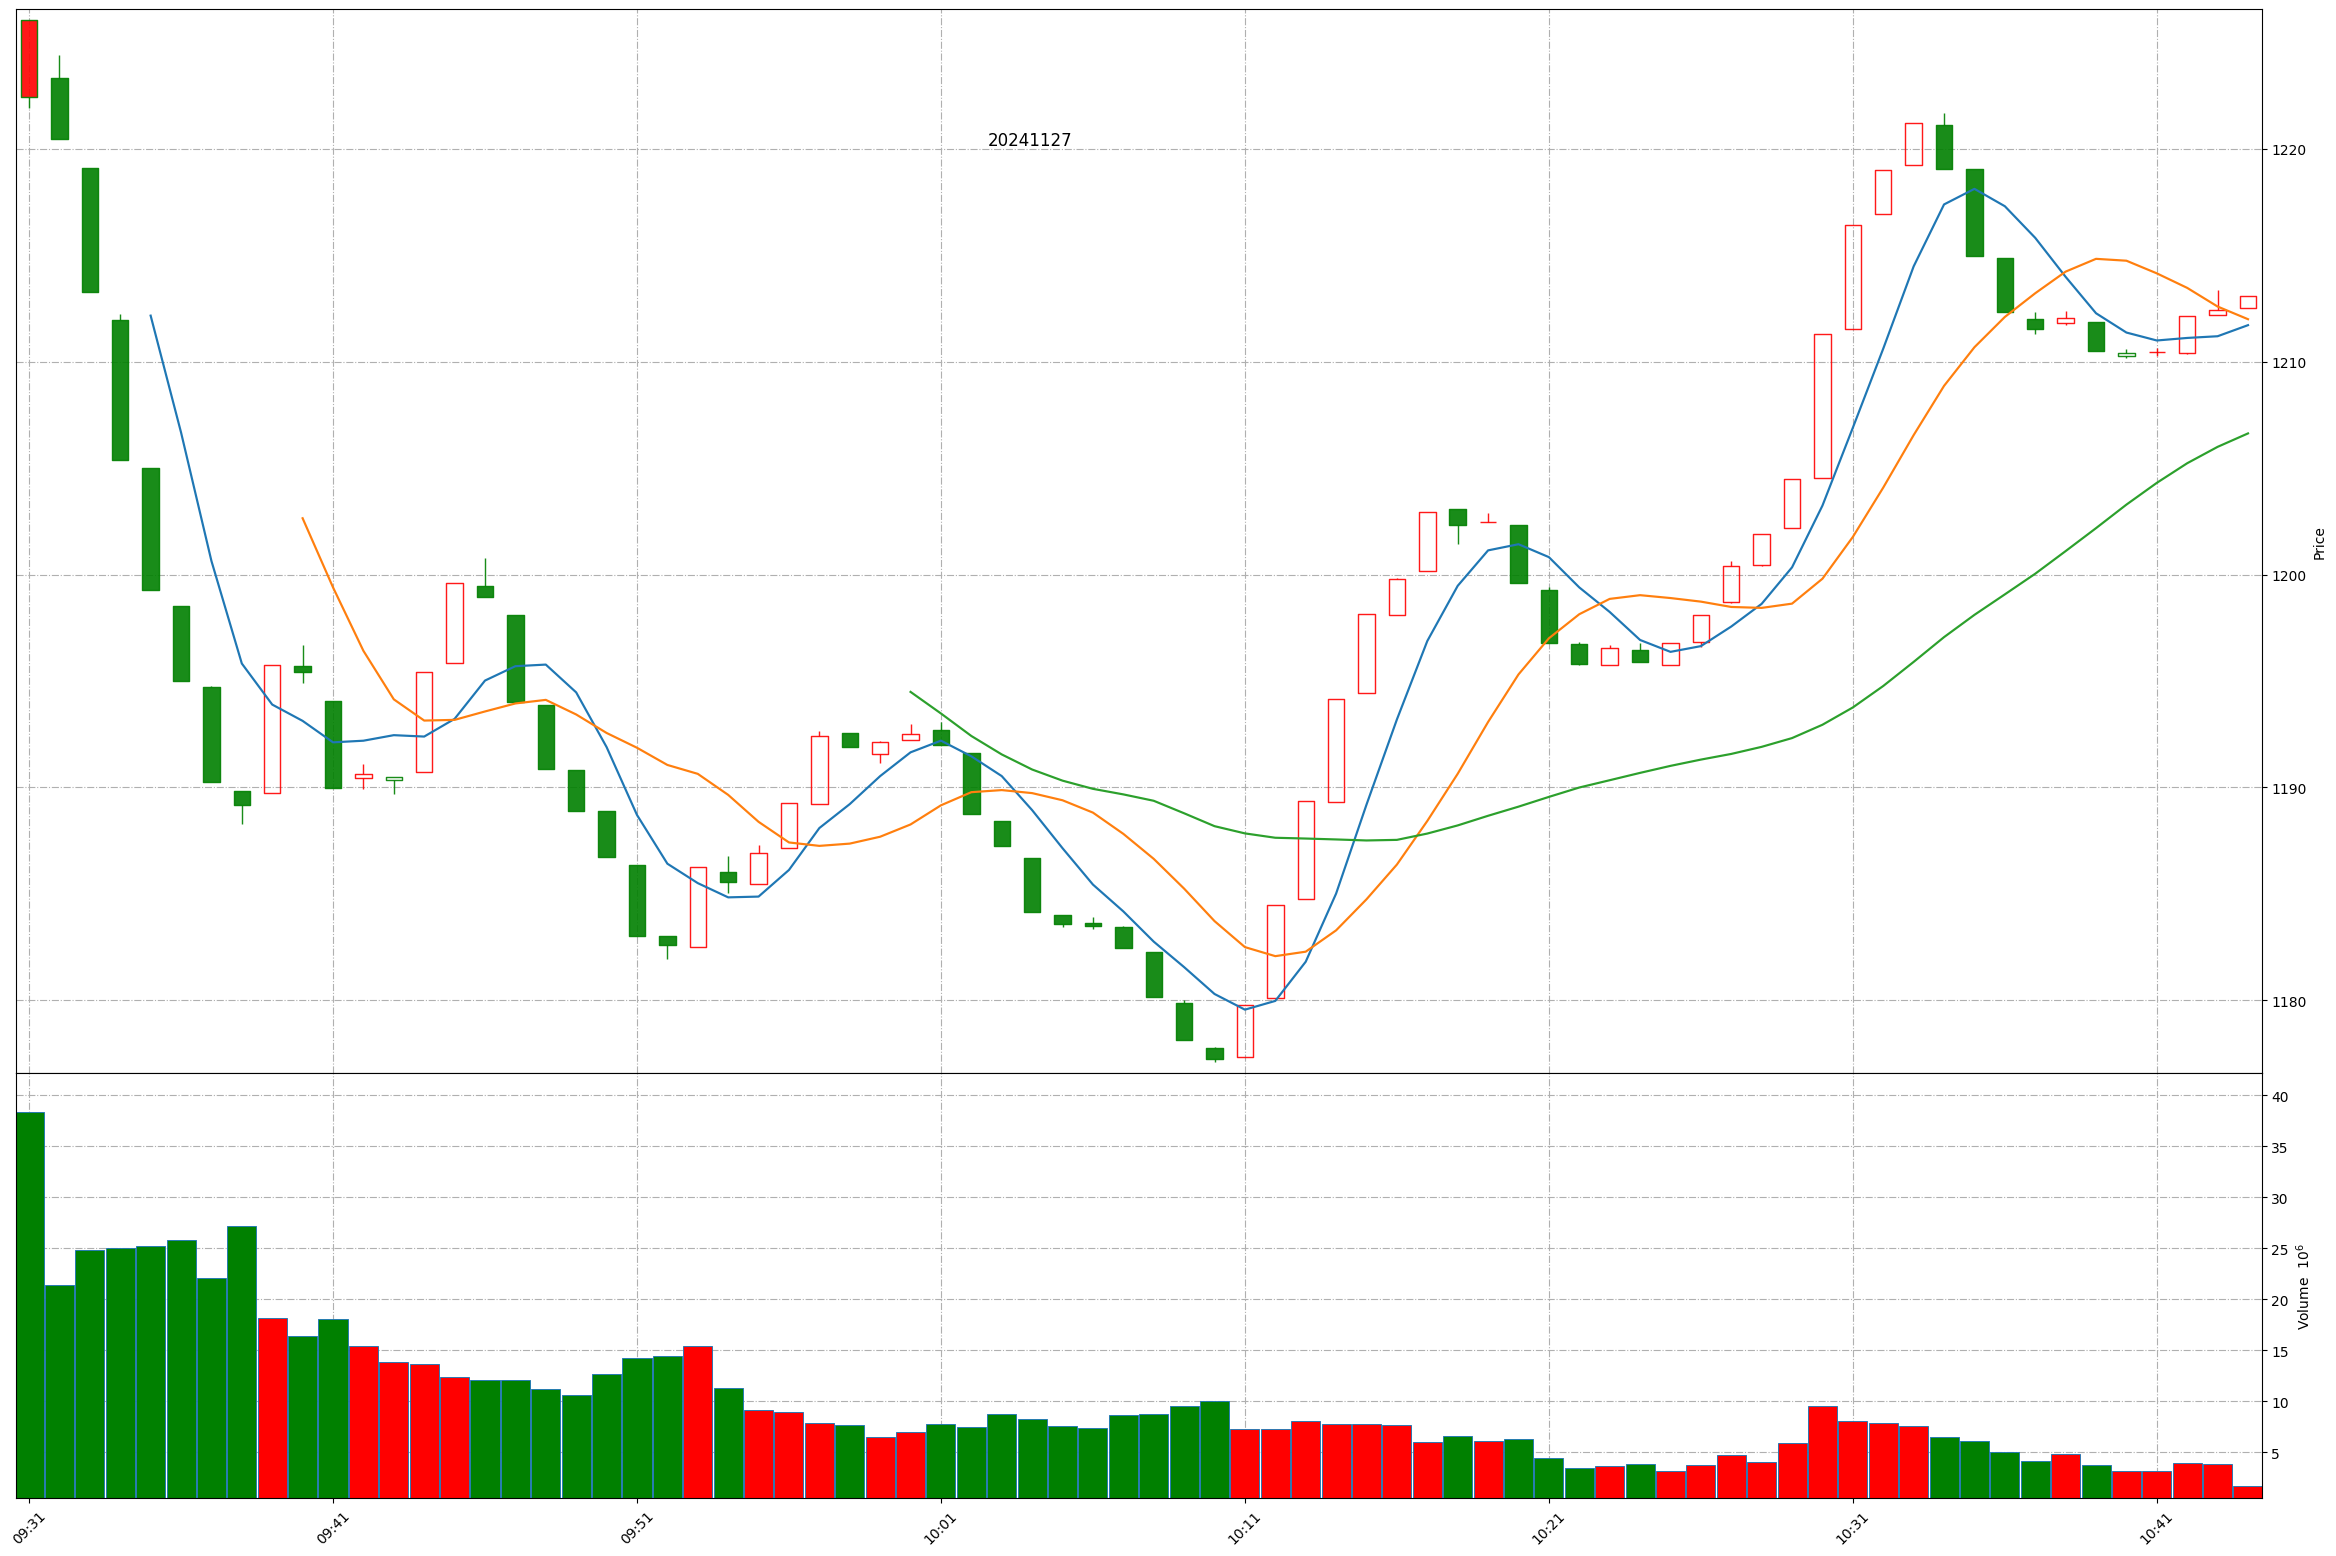
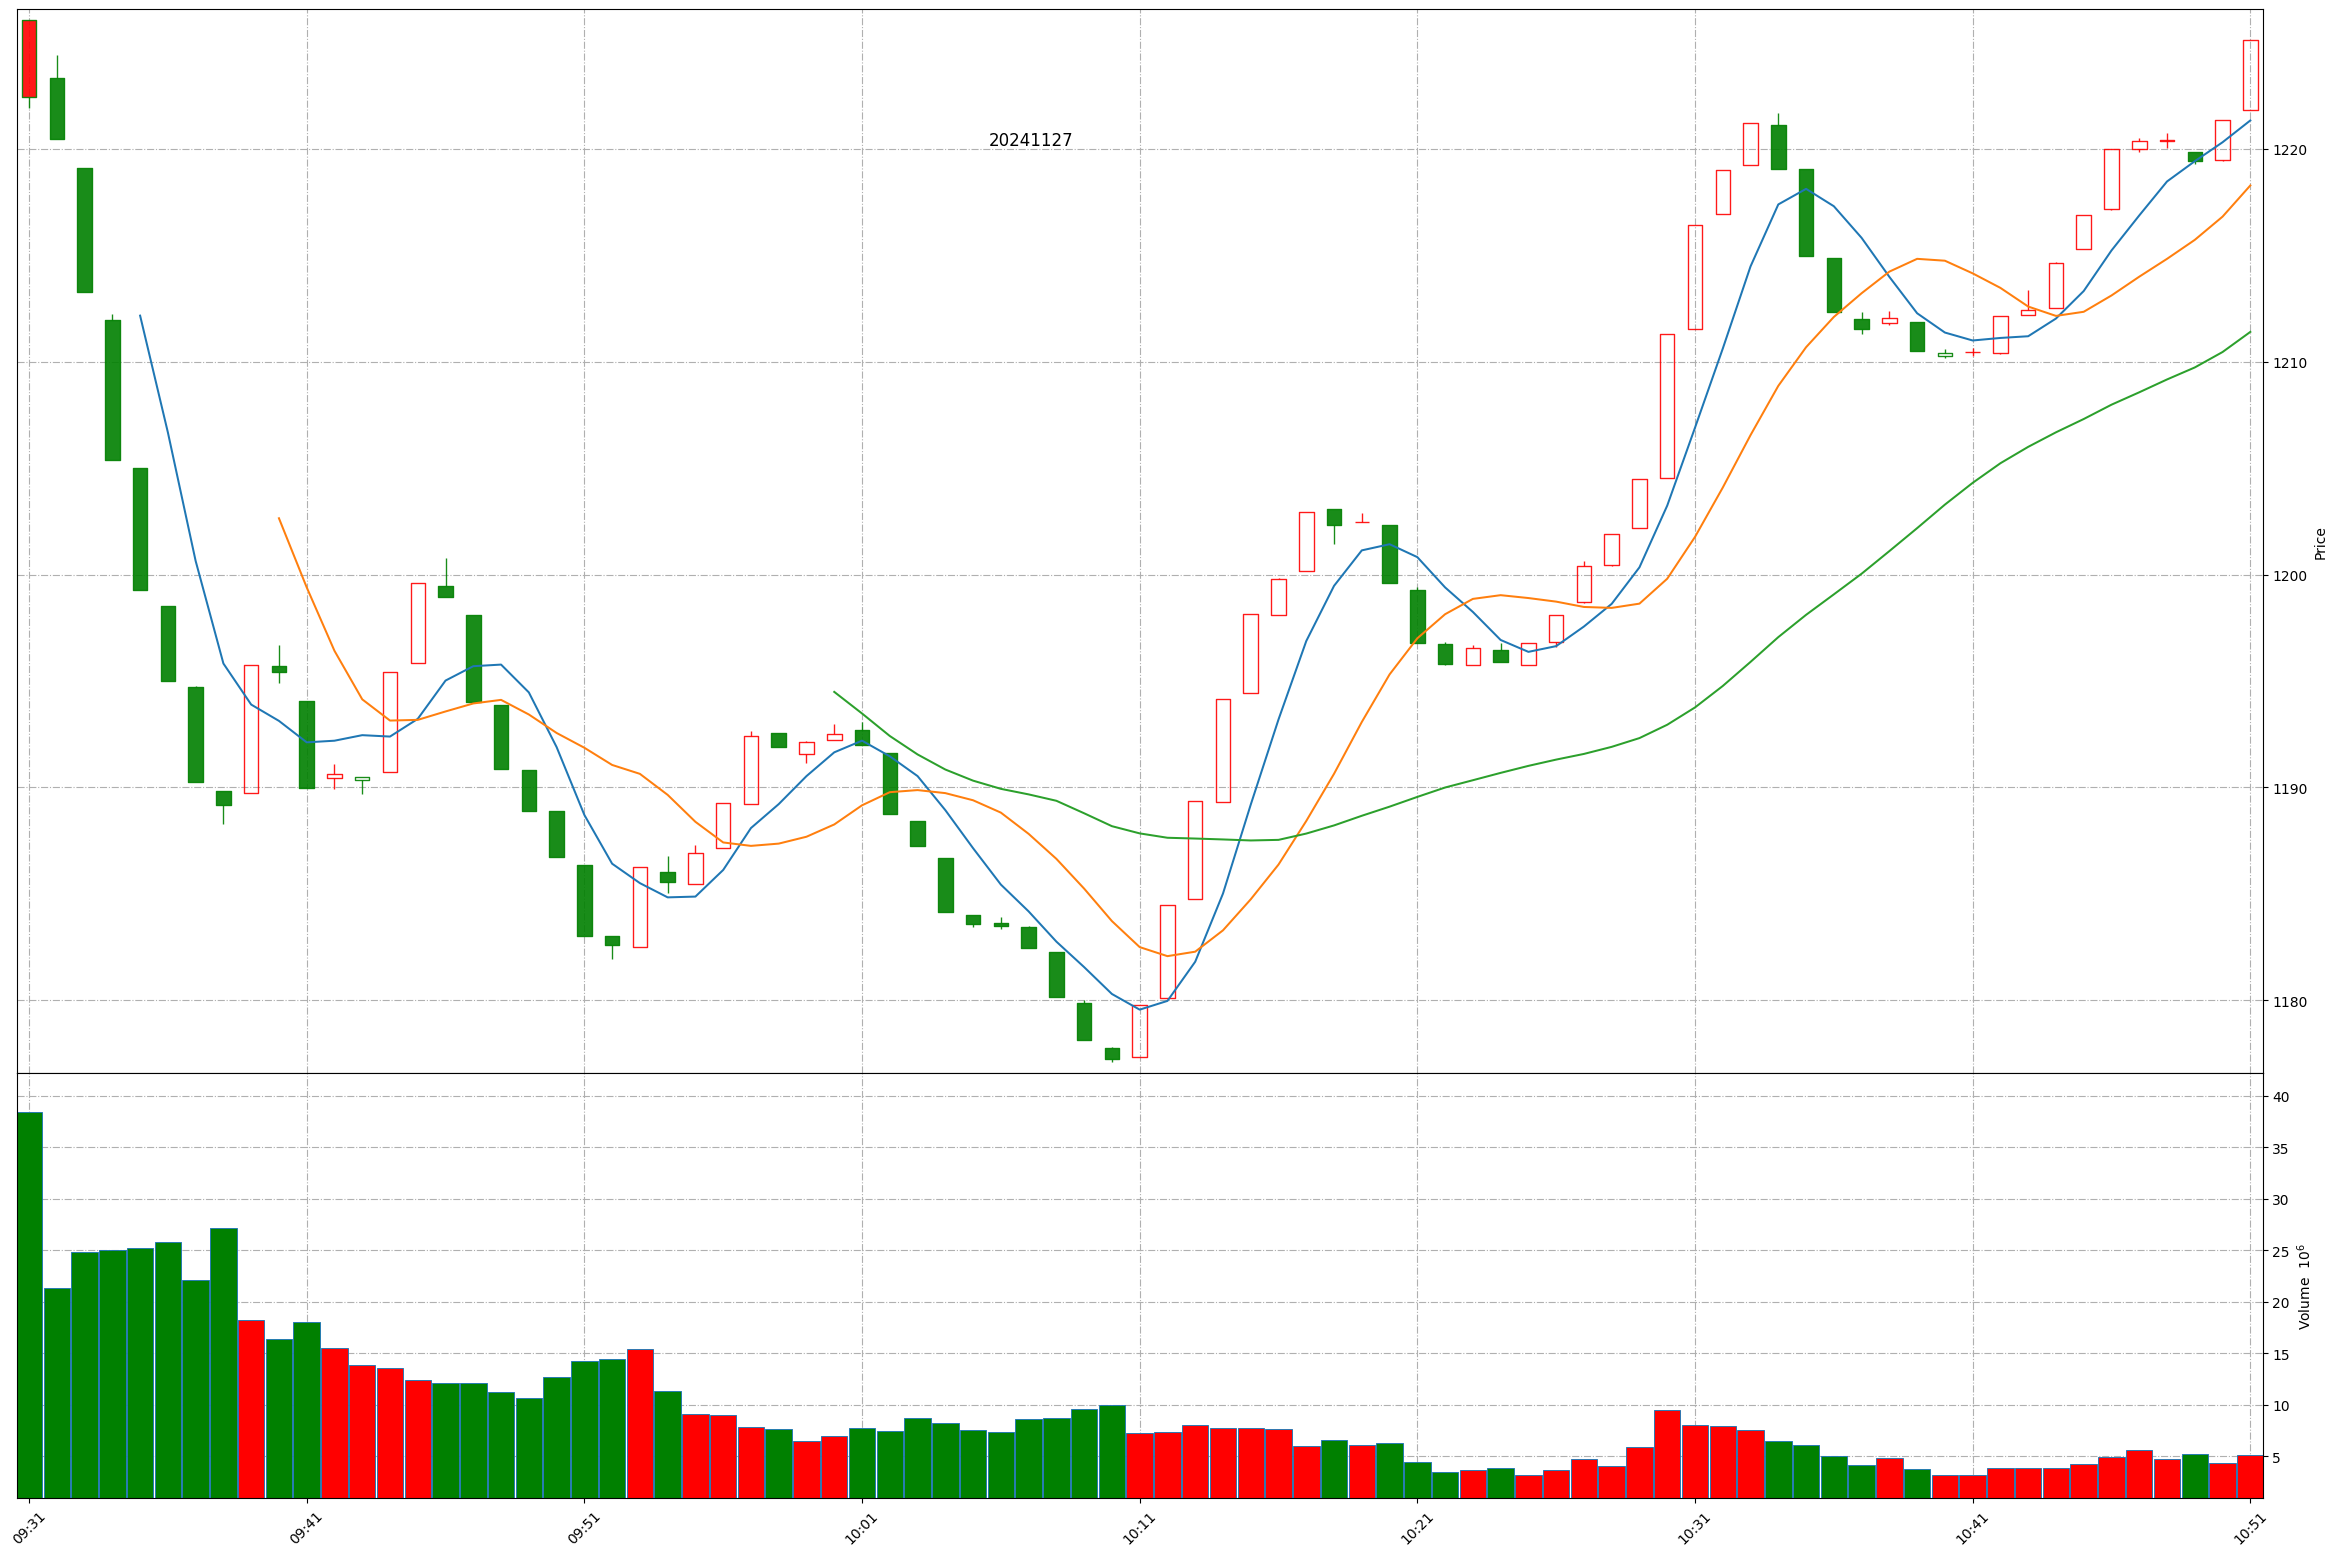
Github action update at 2024-11-27 10:51:05.

diff --git a/README.md b/README.md
@@ -1,11 +1,11 @@
 
 # Daily-A-share-market-quotes 每日 A 股指数（5min 更新）- 20241127
 
-### 上证指数 20241127 10:43
+### 上证指数 20241127 10:51
 ![](./fig/2024/11/20241127-sh000001.png)
 
-### 深证成指 20241127 10:43
+### 深证成指 20241127 10:51
 ![](./fig/2024/11/20241127-sz399001.png)
 
-### 北证50 20241127 10:43
+### 北证50 20241127 10:51
 ![](./fig/2024/11/20241127-bj899050.png)
